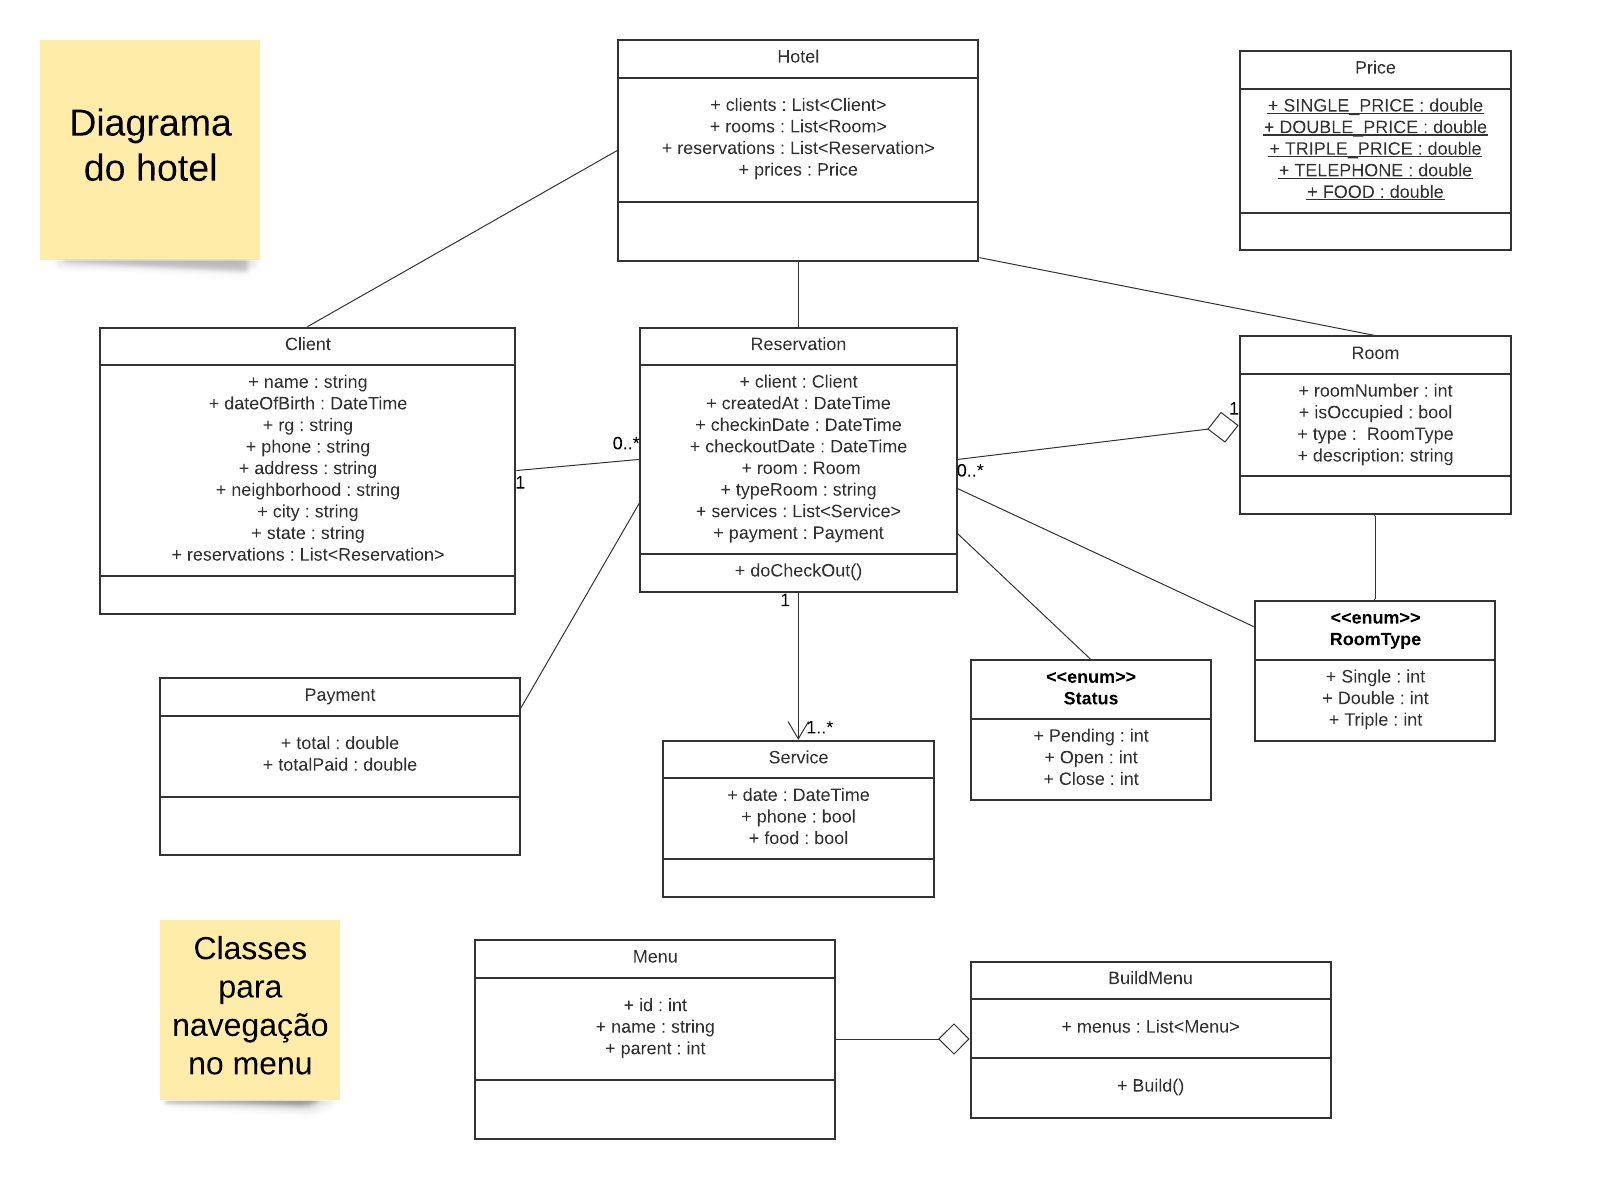
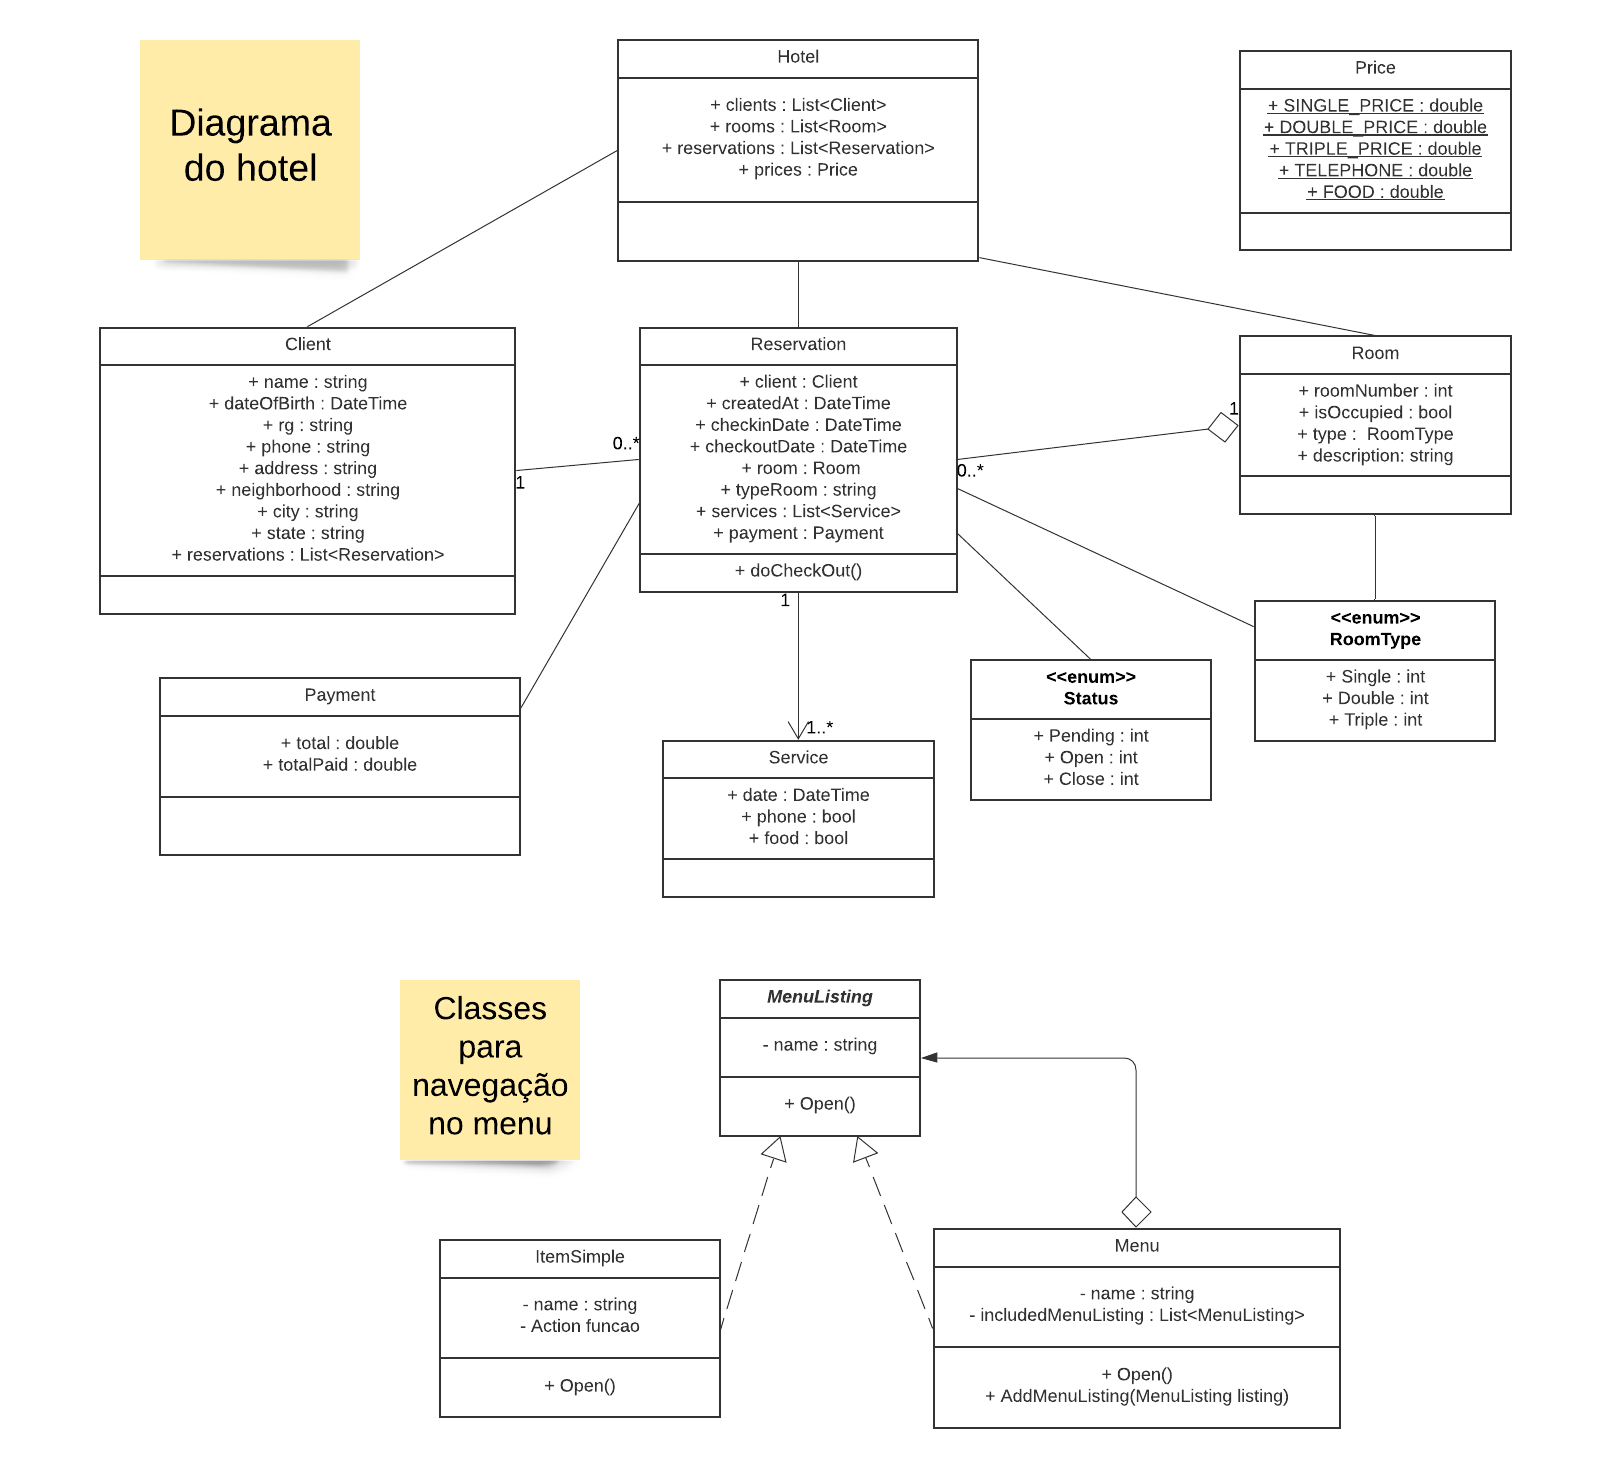
update README, update diagram.

diff --git a/README.md b/README.md
@@ -29,7 +29,7 @@ O objetivo do sistema de hotel é automatizar o funcionamento de uma pousada. Pa
 
 - [Singleton](https://github.com/guerder/atividade_2#singleton)
 - [Composite](https://github.com/guerder/atividade_2#composite)
-- [Iterator]()(https://github.com/guerder/atividade_2#iterator)
+- [Iterator](https://github.com/guerder/atividade_2#iterator)
 
 ### SINGLETON
 
@@ -265,3 +265,68 @@ class Program
 ```
 
 ### ITERATOR
+
+Em conjunto ao Design Pattern Composite utilizei de forma tímida o Iterator para implementar a exibição dos itens da classe Menu, de forma que a iteração ficasse oculta ao Client. O Client invoca o método Open() pertencente as classes ItemSimple e Menu, mas apenas em Menu é realizado a iteração.
+
+> implementação
+
+> Menu
+
+```
+public class Menu : MenuListing
+  {
+    private bool IsRoot;
+    public Menu(string name, bool isRoot = false)
+    {
+      this.Name = name; this.IsRoot = isRoot;
+    }
+    public List<MenuListing> includedMenuListings = new List<MenuListing>();
+
+    public void Add(MenuListing obj)
+    {
+      includedMenuListings.Add(obj);
+    }
+
+    // implementa a operação conforme especificidade da classe.
+    public override void Open()
+    {
+      Titulo(Name);
+      for (int i = 0; i < includedMenuListings.Count; i++)
+      {
+        var includedMenuListingsObject = includedMenuListings[i];
+        Console.WriteLine($"{i + 1}. {includedMenuListingsObject.Name}");
+      }
+
+      if (!IsRoot)
+      {
+        Console.WriteLine("\n0. Voltar para o início");
+      }
+
+      int option = 0;
+      Console.Write("\n > Digite o número correspondente: ");
+      try
+      {
+        option = int.Parse(Console.ReadLine());
+      }
+      catch
+      {
+        option = -1;
+      }
+
+      if (option == 0 && !IsRoot)
+      {
+        return;
+      }
+
+      if ((option - 1) < 0 || (option) > includedMenuListings.Count)
+      {
+        Console.WriteLine("\n Opção inválida! Pressione Enter");
+        Console.ReadKey();
+        return;
+      }
+      var item = includedMenuListings[option - 1];
+
+      item.Open();
+    }
+  }
+```
